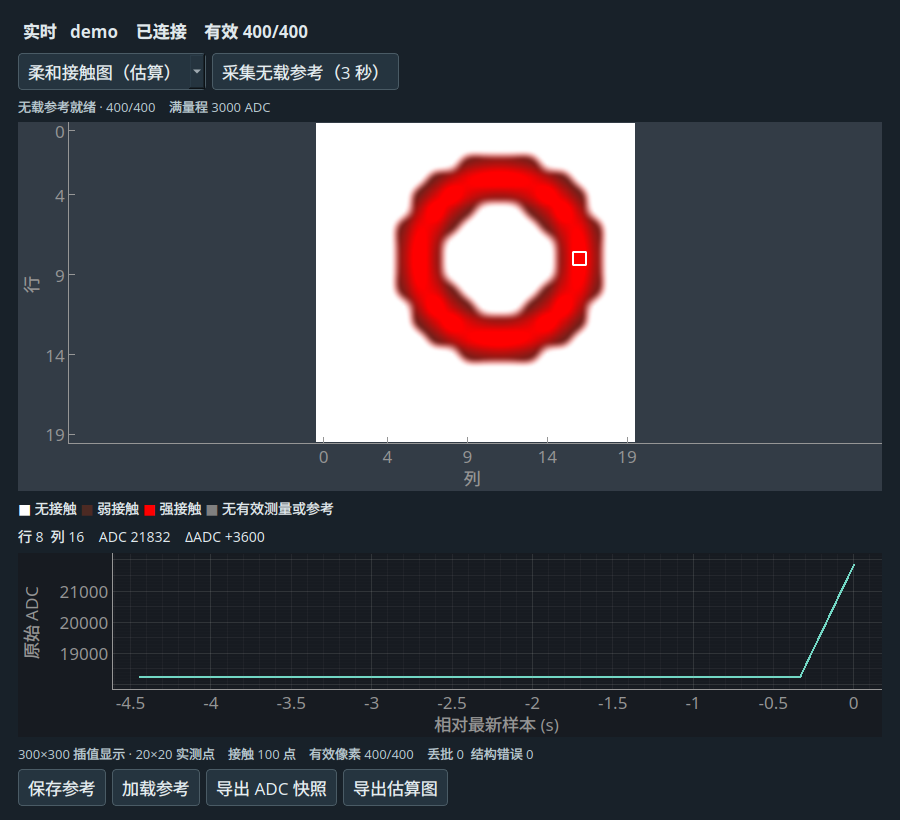
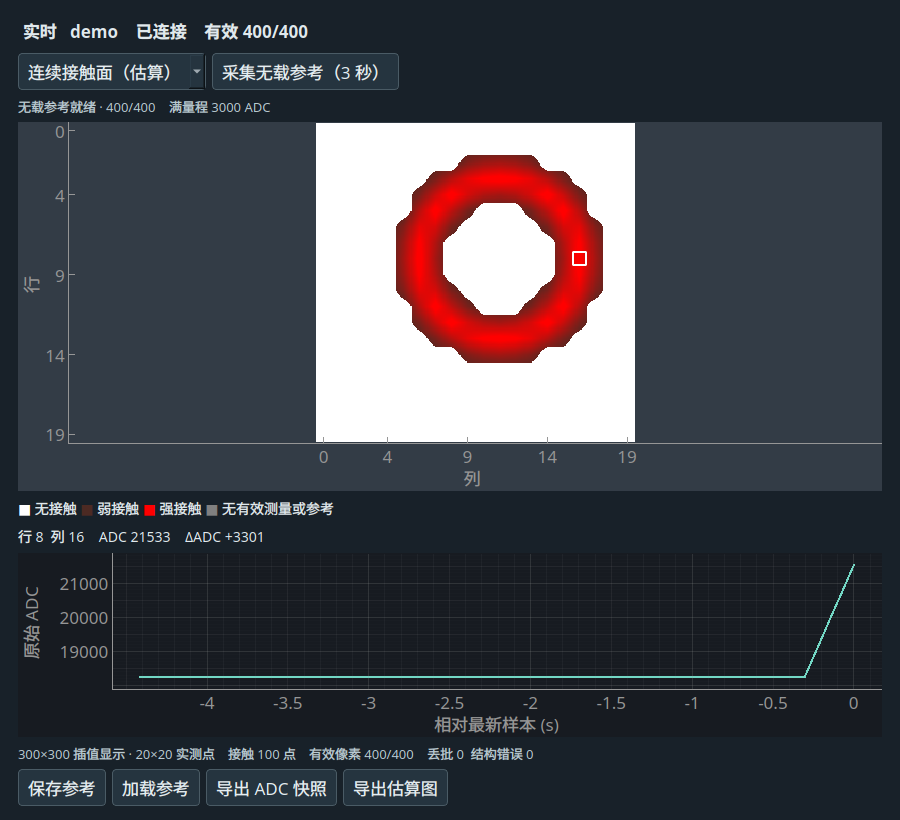
Restore the original continuous contact image as the viewer default

diff --git a/src/griptile_core/griptile_core/contact_image.py b/src/griptile_core/griptile_core/contact_image.py
@@ -60,84 +60,47 @@ def contact_rgb(response) -> np.ndarray:
 
 
 def _sample_axis(count):
-    at = np.clip((np.arange(count * SURFACE_SCALE) - SURFACE_SCALE // 2) / SURFACE_SCALE,
-                 0, count - 1)
-    left = at.astype(int)
-    t = at - left
-    indexes = np.clip(left[:, None] + np.arange(-1, 3), 0, count - 1)
-    # Cubic B-spline weights for coverage and interpolating Catmull-Rom weights
-    # for measured intensity. Edges repeat the outermost taxel.
-    spline = np.array([(1-t)**3, 4-6*t*t+3*t**3, 1+3*t+3*t*t-3*t**3, t**3]) / 6
-    cardinal = np.array([-t*(1-t)**2, 2-5*t*t+3*t**3, t+4*t*t-3*t**3, -t*t*(1-t)]) / 2
-    return indexes.T, spline, cardinal, t
+    offset = np.arange(count * SURFACE_SCALE) - SURFACE_SCALE // 2
+    lower, remainder = np.divmod(np.clip(offset, 0, (count - 1) * SURFACE_SCALE), SURFACE_SCALE)
+    return lower, np.minimum(lower + 1, count - 1), remainder / SURFACE_SCALE
 
 
-_X, _X_SPLINE, _X_CARDINAL, _DX = _sample_axis(COLS)
-_Y, _Y_SPLINE, _Y_CARDINAL, _DY = _sample_axis(ROWS)
+_LEFT, _RIGHT, _DX = _sample_axis(COLS)
+_TOP, _BOTTOM, _DY = _sample_axis(ROWS)
 
 
-def _resample(field, x_weights, y_weights):
-    horizontal = sum(field[:, index] * weight for index, weight in zip(_X, x_weights))
-    return sum(horizontal[index] * weight[:, None] for index, weight in zip(_Y, y_weights))
-
-
-def _smoothstep(t):
-    t = np.clip(t, 0, 1)
-    return t*t*(3-2*t)
-
-
-def _contact_opacity(active):
-    # Compensate the coverage attenuation of isolated taxels at their centers.
-    # A cubic B-spline sampled at an integer has weights [1, 4, 1] / 6.
-    padded = np.pad(active.astype(float), 1, mode="edge")
-    across = (padded[:, :-2] + 4*padded[:, 1:-1] + padded[:, 2:]) / 6
-    center = (across[:-2] + 4*across[1:-1] + across[2:]) / 6
-    coefficients = np.where(active, 1.0 / np.maximum(center, 4/9), 0.0)
-    coverage = _resample(coefficients, _X_SPLINE, _Y_SPLINE)
-    opacity = _smoothstep((coverage - .30) / .64)
-
-    # Keep measured gaps open. At a checkerboard saddle, connect the two
-    # unloaded corners. The two diagonally touching positives stay distinct.
-    tl, tr = (active[_Y[1, :, None], x] for x in _X[1:3])
-    bl, br = (active[_Y[2, :, None], x] for x in _X[1:3])
-    dx, dy = _DX, _DY[:, None]
-    support = ((1-dy) * ((1-dx)*tl + dx*tr) + dy * ((1-dx)*bl + dx*br))
-    saddle = (tl == br) & (bl == tr) & (tl != tr)
-    support = np.where(saddle, np.where(tl, abs(1-dx-dy), abs(dx-dy)), support)
-    return np.minimum(opacity, _smoothstep(support / .65))
+def _bilinear(field):
+    """Interpolate between taxel centers, extending edge samples to the array boundary."""
+    horizontal = field[:, _LEFT] * (1.0 - _DX) + field[:, _RIGHT] * _DX
+    return horizontal[_TOP] * (1.0 - _DY[:, None]) + horizontal[_BOTTOM] * _DY[:, None]
 
 
 def contact_surface_rgb(amplitude, span) -> np.ndarray:
-    """Render a feathered contact impression of the native 20x20 ADC response.
+    """Render a continuous view from 20x20 noise-gated ADC counts.
 
-    Coverage and intensity are reconstructed separately before compositing on
-    white. NaN taxels stay gray. Where a cubic footprint crosses missing data,
-    display the nearest measurement instead of estimating across that gap.
+    NaN marks an unknown sample, zero an unloaded sample. The half-coverage
+    contour of the active samples defines the footprint independently of their
+    strength. A neighborhood containing unknown data uses its nearest taxel
+    instead of estimating a gradient across the missing measurements.
     """
     values = _check_field(amplitude, span)
     valid = np.isfinite(values)
     active = values > 0
+    # Handle uniform unloaded and unknown frames without interpolating an empty surface.
     if not active.any():
         native = np.where(valid[..., None], UNLOADED_RGB, INVALID_RGB).astype(np.uint8)
         return native.repeat(SURFACE_SCALE, axis=0).repeat(SURFACE_SCALE, axis=1)
 
-    source = np.where(valid, values, 0.0)
-    smooth = _resample(source, _X_CARDINAL, _Y_CARDINAL)
-    # Bound cubic overshoot by the four bracketing measured amplitudes.
-    corners = [source[y[:, None], x] for y in _Y[1:3] for x in _X[1:3]]
-    smooth = np.clip(smooth, np.minimum.reduce(corners), np.maximum.reduce(corners))
-    opacity = _contact_opacity(active)
-    strength = np.minimum(smooth/span, 1.0)
-    pixels = np.empty((*strength.shape, 3), dtype=np.uint8)
-    for channel, (weak, strong) in enumerate(zip(WEAK_RGB, STRONG_RGB)):
-        ink = weak + (strong-weak)*strength
-        # A translucent red edge warms towards white; the native palette is
-        # recovered exactly at full opacity.
-        amount = opacity**2 if channel == 0 else opacity
-        pixels[..., channel] = np.rint(255 + amount*(ink-255))
+    smooth = _bilinear(np.where(valid, values, 0))
+    inside = _bilinear(active) >= 0.5
+    visible = np.ones(inside.shape, dtype=bool)
     if not valid.all():
-        unsupported = _resample(~valid, _X_SPLINE, _Y_SPLINE) > 0
-        native = amplitude_rgb(values, span)
-        y, x = np.nonzero(unsupported)
-        pixels[y, x] = native[y // SURFACE_SCALE, x // SURFACE_SCALE]
-    return pixels
+        # Fully unknown taxels stay gray across their whole footprint. On the
+        # valid side of a missing edge, keep the known nearest sample.
+        missing_neighbor = _bilinear(~valid) > 0
+        rows, cols = np.nonzero(missing_neighbor)
+        nearest = values[rows // SURFACE_SCALE, cols // SURFACE_SCALE]
+        smooth[rows, cols] = nearest
+        inside[rows, cols] = nearest > 0
+        visible[rows, cols] = np.isfinite(nearest)
+    return _color_response(smooth, visible, inside, span)

diff --git a/src/griptile_core/test/test_contact_image.py b/src/griptile_core/test/test_contact_image.py
@@ -89,7 +89,7 @@ def test_fixed_colors_are_independent_of_other_taxels_and_clip_only_at_full_scal
     np.testing.assert_array_equal(image(detector, values, time=2), first)
 
 
-def test_surface_keeps_measured_touch_states_and_invalid_taxel_footprints():
+def test_surface_preserves_all_measured_centers_and_invalid_taxel_footprints():
     rng = np.random.default_rng(17)
     amplitude = rng.integers(0, 6000, size=(ROWS, COLS)).astype(float)
     amplitude[5::3, 8::4] = np.nan
@@ -99,40 +99,26 @@ def test_surface_keeps_measured_touch_states_and_invalid_taxel_footprints():
     surface = contact_surface_rgb(amplitude, DEFAULT_CONTACT_SPAN)
     assert surface.shape == (300, 300, 3) and surface.dtype == np.uint8 and surface.flags.c_contiguous
     center = SURFACE_SCALE // 2
-    centers = surface[center::SURFACE_SCALE, center::SURFACE_SCALE]
-    np.testing.assert_array_equal(centers[amplitude == 0], native[amplitude == 0])
-    # Contact opacity can soften a boundary taxel, including its center.
-    loaded = centers[amplitude > 0]
-    assert np.all(loaded[:, 0] > loaded[:, 1])
+    np.testing.assert_array_equal(surface[center::SURFACE_SCALE, center::SURFACE_SCALE], native)
     missing = np.repeat(np.repeat(np.isnan(amplitude), SURFACE_SCALE, axis=0), SURFACE_SCALE, axis=1)
     assert np.all(surface[missing] == INVALID_RGB)
 
 
-@pytest.mark.parametrize("strength", [1., 1500., 6000.])
-def test_single_touch_feathers_without_losing_its_peak(strength):
+def test_surface_uses_scalar_bilinear_weights_and_separate_half_coverage_contour():
     amplitude = np.zeros((ROWS, COLS))
     row, col = 5, 12
-    amplitude[row, col] = strength
+    amplitude[row, col] = 1500
     surface = contact_surface_rgb(amplitude, DEFAULT_CONTACT_SPAN)
-    y = SURFACE_SCALE * row + SURFACE_SCALE // 2
-    x = SURFACE_SCALE * col + SURFACE_SCALE // 2
-    np.testing.assert_array_equal(surface[y, x], amplitude_rgb(amplitude, DEFAULT_CONTACT_SPAN)[row, col])
+    y, x = SURFACE_SCALE * row + 7, SURFACE_SCALE * col + 7
+
+    # One interpolated sample lies within the footprint and one outside it.
+    fraction = (1 - 3 / SURFACE_SCALE) * (1 - 4 / SURFACE_SCALE)
+    expected = np.rint(WEAK_RGB + (np.subtract(STRONG_RGB, WEAK_RGB) * (1500 * fraction / 3000)))
+    np.testing.assert_array_equal(surface[y + 3, x + 4], expected)
+    np.testing.assert_array_equal(surface[y + 5, x + 5], UNLOADED_RGB)
     np.testing.assert_array_equal(surface[x, y], UNLOADED_RGB)
-    # The white channel contribution increases gradually over several pixels
-    # before the neighboring unloaded center. A binary hard edge fails this.
-    outward = surface[y, x:x + SURFACE_SCALE + 1, 1].astype(int)
-    assert outward[-1] == 255 and len(np.unique(outward)) >= 8
-    assert np.all((np.diff(outward) >= 0) & (np.diff(outward) < 64))
-    np.testing.assert_array_equal(outward, surface[y:y + SURFACE_SCALE + 1, x, 1])
-
-
-def test_diagonally_touching_contacts_keep_a_white_gap():
-    field = np.zeros((ROWS, COLS))
-    field[5, 5] = field[6, 6] = DEFAULT_CONTACT_SPAN
-    surface = contact_surface_rgb(field, DEFAULT_CONTACT_SPAN)
-    p = 5 * SURFACE_SCALE + SURFACE_SCALE // 2
-    offset = np.arange(SURFACE_SCALE + 1)
-    assert np.all(surface[p + offset, p + SURFACE_SCALE - offset] == UNLOADED_RGB)
+    contact = np.any(surface != UNLOADED_RGB, axis=2)
+    assert surface[..., 0][contact].max() == surface[y, x, 0]
 
 
 def test_surface_keeps_holes_separated_contacts_and_unknown_rows():

diff --git a/src/griptile_viewer/test/test_viewer.py b/src/griptile_viewer/test/test_viewer.py
@@ -6,7 +6,7 @@ import numpy as np
 import pytest
 
 from griptile_core.assembler import Assembler
-from griptile_core.contact_image import INVALID_RGB, STRONG_RGB, UNLOADED_RGB, WEAK_RGB, contact_surface_rgb
+from griptile_core.contact_image import INVALID_RGB, STRONG_RGB, UNLOADED_RGB, WEAK_RGB
 from griptile_core.grid import LAYOUT_ID
 from griptile_core.protocol import Block, PROTOCOL_ID
 from griptile_core.serial_source import Batch
@@ -141,10 +141,10 @@ def test_qt_native_rgb_png_and_diagnostic_modes(monkeypatch, tmp_path):
     model.accept_image(image(state, pixels))
     requests = []
     window = ViewerWindow(model, clock_ns=lambda: 0, request_reference=requests.append)
-    window.mode.setCurrentIndex(CONTACT_MODE)
     window.show()
     app.processEvents()
     model.select(2, 3)
+    window.mode.setCurrentIndex(CONTACT_MODE)
     window.refresh()
     assert window.mode.currentIndex() == CONTACT_MODE
     assert window.image.axisOrder == "row-major"
@@ -220,17 +220,14 @@ def test_continuous_mode_png_selection_coordinates_and_native_export(monkeypatch
     requests = []
     window = ViewerWindow(model, clock_ns=lambda: clock_ns, request_reference=requests.append)
     assert window.mode.currentIndex() == SURFACE_MODE
-    assert window.mode.currentText() == "柔和接触图（估算）"
+    assert not (window.map.renderHints() & QtGui.QPainter.SmoothPixmapTransform)
     window.show()
     app.processEvents()
     window.refresh()
-    assert window.map.renderHints() & QtGui.QPainter.SmoothPixmapTransform
     assert "接触 1 点" in window.legend.text() and "399/400" in window.legend.text()
     original = window.image.image
     assert original.shape == (300, 300, 3)
-    np.testing.assert_array_equal(original, contact_surface_rgb(field, model.current_reference.span_adc))
-    peak = original[3 * 15 + 7, 12 * 15 + 7]
-    assert peak[0] > peak[1] and peak[0] > peak[2]
+    np.testing.assert_array_equal(original[3 * 15 + 7, 12 * 15 + 7], STRONG_RGB)
     # The 300-pixel image still occupies [0,20) on both axes, including after mode switches.
     for row, col in ((0, 0), (19, 19), (3, 12), (17, 2)):
         scene = window.image.mapToScene(QtCore.QPointF((col + .5) * 15, (row + .5) * 15))

diff --git a/src/griptile_viewer/griptile_viewer/window.py b/src/griptile_viewer/griptile_viewer/window.py
@@ -70,7 +70,7 @@ class ViewerWindow(QtWidgets.QMainWindow):
         layout.addWidget(self.status)
         controls = QtWidgets.QHBoxLayout()
         self.mode = QtWidgets.QComboBox()
-        self.mode.addItems(["接触图 RGB", "柔和接触图（估算）", "原始 ADC", "相对无载参考 ΔADC"])
+        self.mode.addItems(["接触图 RGB", "连续接触面（估算）", "原始 ADC", "相对无载参考 ΔADC"])
         self.mode.setCurrentIndex(SURFACE_MODE)
         controls.addWidget(self.mode)
         self.span_label = QtWidgets.QLabel("差值色限 ±")
@@ -95,6 +95,7 @@ class ViewerWindow(QtWidgets.QMainWindow):
         self.map.getViewBox().setMenuEnabled(False)
         self.map.setMouseEnabled(False, False)
         self.map.invertY()
+        self.map.setRenderHint(QtGui.QPainter.SmoothPixmapTransform, False)
         self.map.setXRange(0, COLS, padding=0)
         self.map.setYRange(0, ROWS, padding=0)
         ticks = [(n + .5, str(n)) for n in (0, 4, 9, 14, 19)]
@@ -227,7 +228,6 @@ class ViewerWindow(QtWidgets.QMainWindow):
         self.scale.setVisible(contact)
         mode_changed = self._format != mode
         if mode_changed:
-            self.map.setRenderHint(QtGui.QPainter.SmoothPixmapTransform, surface)
             self.image.setLookupTable({RAW_MODE: RAW, DELTA_MODE: DELTA}.get(mode))
             self.png_button.setText("导出估算图" if surface else "导出图像")
             self._format = mode

diff --git a/README.md b/README.md
@@ -1,10 +1,10 @@
 # griptile_driver
 
-适用于单块 USB 串口夹爪触觉阵列的 ROS 2 驱动和二维查看器。默认窗口把 20×20 个触点显示成一张柔和的接触印迹图，可观察夹爪与物体的接触位置、范围和相对强弱。点击单元可查看 ADC 曲线。查看器、录制器与其他 ROS 节点可以同时订阅同一驱动。[English guide](docs/README.en.md)
+适用于单块 USB 串口夹爪触觉阵列的 ROS 2 驱动和二维查看器。每个触觉单元对应 RGB 图像中的一个像素，默认窗口直接呈现夹爪与物体的接触位置、覆盖范围和相对强弱。点击单元可查看 ADC 曲线。查看器、录制器与其他 ROS 节点可以同时订阅同一驱动。[English guide](docs/README.en.md)
 
-![同一组模拟触点的原生颜色与柔和接触印迹](docs/contact-surface-comparison.png)
+![由正式驱动发布的模拟无载、环形和双点接触图](docs/contact-footprints.png)
 
-[实际窗口截图](docs/viewer-demo.png) · [柔化前后对照](docs/contact-surface-softening.png) · [原生 20×20 PNG 示例](docs/contact-ring.png)
+上图使用模拟输入，按原始行列放大。环形的中心留白，两个分离接触区之间也保留空隙。[下载原生 20×20 RGB 示例](docs/contact-ring.png) · [查看窗口截图](docs/viewer-demo.png)
 
 ## 构建
 
@@ -33,7 +33,7 @@ python3 examples/demo.py
 ros2 launch griptile_driver sensor.launch.py port:=/dev/ttyUSB0 gui:=true
 ```
 
-窗口默认选择「柔和接触图（估算）」。让夹爪张开、感应面保持无载，点击一次「采集无载参考（3 秒）」，等有效单元变白后即可接触物体。每次建立参考的是驱动，同一传感器的所有窗口和 ROS 图像订阅者共享该结果。
+窗口默认选择「连续接触面（估算）」。让夹爪张开、感应面保持无载，点击一次「采集无载参考（3 秒）」，等有效单元变白后即可接触物体。每次建立参考的是驱动，同一传感器的所有窗口和 ROS 图像订阅者共享该结果。
 
 | 像素颜色 | 含义 |
 | --- | --- |
@@ -41,9 +41,11 @@ ros2 launch griptile_driver sensor.launch.py port:=/dev/ttyUSB0 gui:=true
 | 暗红褐色至鲜红 | 接触响应由弱到强，超过所选量程后保持纯红 |
 | 灰色 | 该点缺少可用参考或新鲜读数 |
 
-默认视图将相邻触点的响应画成 300×300 的连续色面，接触边缘逐渐淡入白底，边缘颜色会随覆盖程度变浅。点击「导出估算图」可保存这张 PNG。左上角的「接触图 RGB」显示一触点一像素的原生图，使用最近邻放大并导出 20×20 PNG。两种视图共享无载参考，点击读数、曲线与接触点数均取自 400 个实测触点。第 0 行在上，第 0 列在左。
+切换到「接触图 RGB」可查看 20 行 × 20 列的三通道 `rgb8`，第 0 行在上、第 0 列在左。每个像素大小相同。界面按最近邻放大，接触模式导出的是原生 20×20 彩色 PNG。一个接触区占据的像素数量反映阵列上被触及的范围；细节分辨率受触点间距限制。颜色表示相对无载的 ADC 变化，换算牛顿、帕斯卡或平方毫米需要对应的力学标定或几何尺寸。
 
-颜色表示相对无载的 ADC 变化。换算牛顿、帕斯卡或平方毫米需要对应的力学标定或几何尺寸。
+默认的连续接触面将同一帧显示为 300×300 的 RGB 图。驱动提供 400 个相对无载的响应值，窗口在相邻测点之间对响应强度做双线性插值，单独估算接触边界。缺测单元保留灰色，放大图在全部 400 个测点中心沿用原生颜色。点击读数、曲线和接触点数仍对应原始阵列。点击「导出估算图」可保存当前的 300×300 PNG。「接触图 RGB」可随时切回，两个视图共享一次无载参考。
+
+![同一组模拟触点的原生显示与连续估算，分别展示环形凸缘和三道宽纹](docs/contact-surface-comparison.png)
 
 显示使用固定色域，默认去噪后 3000 ADC 对应满红。启动时传入 `contact_span_adc:=6000.0` 可增大显示量程。默认 `contact_direction:=both` 同时接受 ADC 向上或向下的变化，已知夹爪受压极性时可选 `increase` 或 `decrease`。原始 ADC、有符号 ΔADC 和快照 CSV 均可用于诊断。已核验 USB 身份的设备支持保存和复用无载参考。
 

diff --git a/docs/README.en.md b/docs/README.en.md
@@ -1,10 +1,10 @@
 # griptile_driver
 
-A ROS 2 driver and a 2D viewer for one USB serial gripper tactile array. The default view renders a soft contact footprint from the 20×20 array. See where the gripper touches an object, how many cells respond and how response varies across its contact footprint. The driver owns the serial device and ROS subscribers share its output. [中文说明](../README.md)
+A ROS 2 driver and a 2D viewer for one USB serial gripper tactile array. Each taxel maps to one RGB pixel. See where the gripper touches an object, how many cells respond and how response varies across its contact footprint. The driver owns the serial device and ROS subscribers share its output. [中文说明](../README.md)
 
-![Native and soft views of the same simulated contacts](contact-surface-comparison.png)
+![Simulated release, ring and two separated pads captured from the ROS image topic](contact-footprints.png)
 
-[Qt window](viewer-demo.png) · [Previous and current rendering](contact-surface-softening.png) · [Native 20×20 RGB example](contact-ring.png)
+[Native 20×20 RGB example](contact-ring.png) · [Qt window](viewer-demo.png)
 
 ## Build and run
 
@@ -31,7 +31,11 @@ ros2 launch griptile_driver sensor.launch.py port:=/dev/ttyUSB0 gui:=true
 
 The default contact view uses row and column addresses 0–19, with row zero at the top and column zero at the left. Open the gripper, unload the surface and click the three-second reference button. Once the reference is ready, white pixels indicate measured cells with no detected contact. Weak contacts appear dark reddish brown and progress to saturated red. Gray pixels indicate missing reference or stale data. The demo supplies unloaded samples until the driver confirms the reference, then cycles through a ring, release and two separate contact patches.
 
-The viewer opens in **柔和接触图（估算）** and renders a 300×300 surface that fades partial boundary coverage into the white background. Export this view as a 300×300 PNG. Select **接触图 RGB** for the native 20×20 view, which uses nearest-neighbor magnification and exports a 20×20 PNG. Both views share the unloaded reference. Picking, per-cell traces and contact counts use the 400 measured addresses. Unknown taxels are gray. Force and pressure units need physical calibration, and physical area needs the dimensions of the sensing surface.
+The native **接触图 RGB** view magnifies the pixels with nearest-neighbor sampling. Contact-mode PNG export writes the original 20×20 RGB image. The contact footprint counts responding cells; conversion to physical area requires sensor dimensions. Intensity is a noise-gated ADC change; force or pressure units require physical calibration. Raw ADC and signed delta views, per-cell traces and CSV export remain available. Saved references can be reused with a verified matching device and layout.
+
+The default **连续接触面（估算）** view displays the same 400 taxels as a 300×300 RGB surface. The viewer interpolates noise-gated ADC amplitudes between neighboring taxel centers and estimates the contact outline from their active flags. Unknown regions stay gray. Colors at all 400 measured centers match the native grid. Picking, time series and contact counts still use the original addresses. The surface view exports a 300×300 PNG. Both views share the same unloaded reference.
+
+![Native and interpolated views of the same simulated ring and three broad ridges](contact-surface-comparison.png)
 
 The color scale is fixed across frames. The default full red response is 3000 ADC counts. Set `contact_span_adc:=6000.0` to extend the range. The default `contact_direction:=both` accepts either sign of ADC change. Select `increase` or `decrease` when the pressure polarity is known. All subscribers share the driver's calibration. From a headless terminal with the gripper unloaded, request it with the command below.
 

diff --git a/CHANGELOG.md b/CHANGELOG.md
@@ -6,4 +6,4 @@
 - Introduce sensor-scoped ROS 2 interfaces for raw rows, state, diagnostics and source metadata.
 - Add a matrix viewer, neutral reference capture, a simulated sensor and sample-based replay.
 - Add native RGB8 contact footprints, driver-owned unloaded references, recorded-reference replay and pixel-exact PNG export.
-- Open the viewer on a soft-edged 300×300 contact estimate, with native grid inspection and per-mode PNG export.
+- Open on the 300×300 continuous contact view and support PNG export from the 20×20 scalar response.
